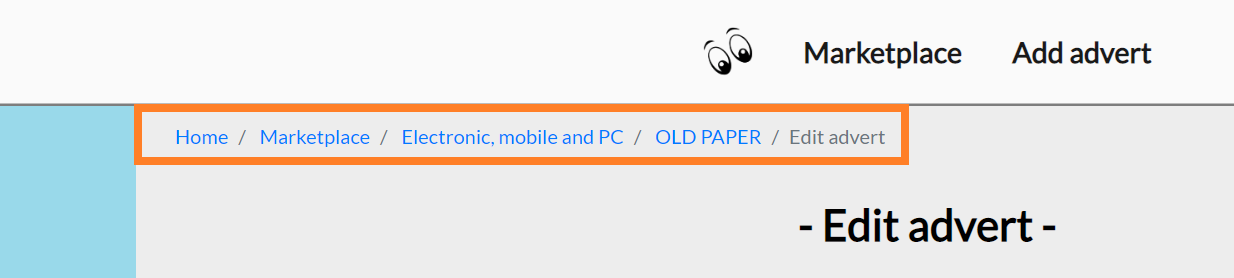
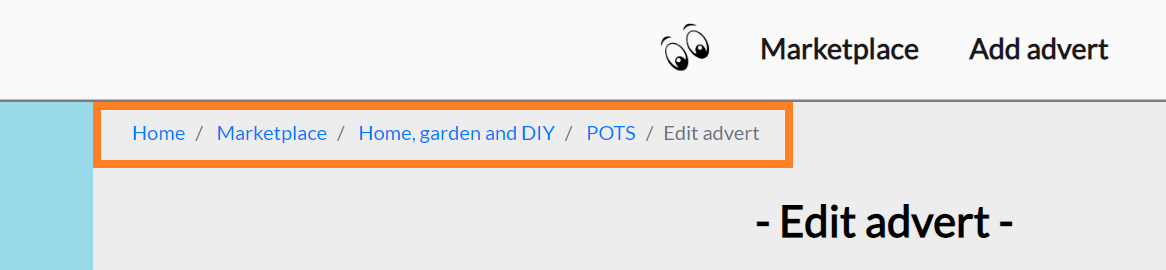
final changes in readme before submission.

diff --git a/templates/edit_advert.html b/templates/edit_advert.html
@@ -15,7 +15,7 @@
                     <li class="breadcrumb-item">
                     <a href="{{url_for('marketplace')}}">Marketplace</a>
                     </li>
-                    {% if advert.category_name == "Home, garden, DIY" %}
+                    {% if advert.category_name == "Home, garden and DIY" %}
                     <li class="breadcrumb-item">
                         <a href="{{url_for('home_garden_diy')}}">Home, garden and DIY</a>
                     </li>

diff --git a/README.md b/README.md
@@ -64,7 +64,7 @@ I choose the name Snoop as in "to snoop around" and all similarities with Snoop 
   - user can see what they searched for and have option to go to Home page. 
 
 <p align="center">
-  <img src="https://raw.githubusercontent.com/romangrubic/database-project/master/static/images/readme/user_stories/no-search.png" width="500" height="150" alt="User can see what they searched for">
+  <img src="https://raw.githubusercontent.com/romangrubic/database-project/master/static/images/readme/user_stories/no-search.png" width="500" height="350" alt="User can see what they searched for">
 </p>
 
 * **view advert that I'm interested in**
@@ -82,7 +82,7 @@ I choose the name Snoop as in "to snoop around" and all similarities with Snoop 
 * **view my location in relation to Home page**
   - user can see location just beneath navigation bar. 
 <p align="center">
-  <img src="https://raw.githubusercontent.com/romangrubic/database-project/master/static/images/readme/user_stories/breadcrumbs.png" width="500" height="150" alt="Location of the user">
+  <img src="https://raw.githubusercontent.com/romangrubic/database-project/master/static/images/readme/user_stories/breadcrumbs.png" width="600" height="200" alt="Location of the user">
 </p>
 
 * **place my own advert**
@@ -106,7 +106,7 @@ I choose the name Snoop as in "to snoop around" and all similarities with Snoop 
 * **know if access key is wrong**
   - if user enters access key which is incorrect, a page 403 will load and instruct the user that their key was wrong and give them option to go back to the advert.
 <p align="center">
-  <img src="https://raw.githubusercontent.com/romangrubic/database-project/master/static/images/readme/user_stories/access_denied.png" width="500" height="300" alt="Page 403">
+  <img src="https://raw.githubusercontent.com/romangrubic/database-project/master/static/images/readme/user_stories/access_denied.png" width="500" height="350" alt="Page 403">
 </p>
 
 #### As a company, I would like to:
@@ -120,8 +120,8 @@ I choose the name Snoop as in "to snoop around" and all similarities with Snoop 
 
 ### Strategy
 
-**Snoop** web-site purpose is to be a marketplace where users can put their things to sell and earn money and companies to promote their bussines by renting advertisement space. 
-Also, for the owner of the page to earn money by renting out designated advertisement space (side spaces coloured ![#99D9EA](https://placehold.it/15/99D9EA/000000?text=+) `#99D9EA` ).
+**Snoop** web-site purpose is to be a marketplace where users can put their things to sell and earn money and for companies to promote their bussines by renting advertisement space. 
+Also, for the owner of the page to earn money by renting out designated advertisement space (side spaces coloured ![#99D9EA](https://placehold.it/15/99D9EA/000000?text=+) `#99D9EA` ) to either companies/users or [Google ads](https://www.google.com/adsense/start/).
 
 ### Scope
 
